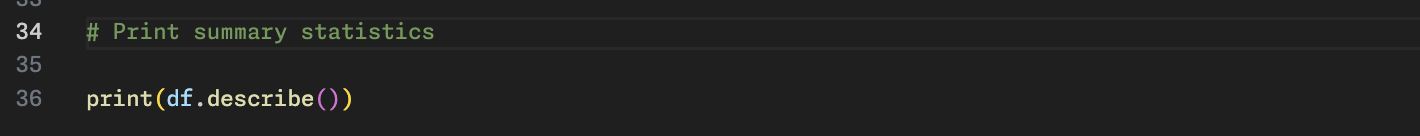
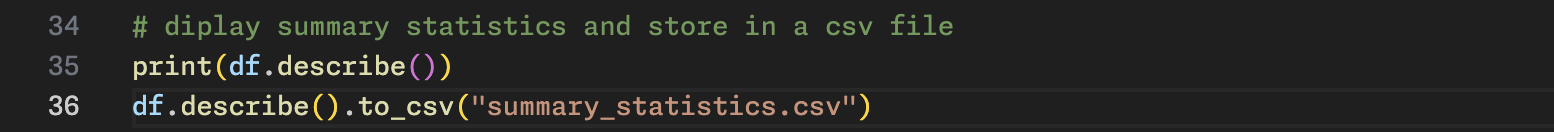
AI/ML task 1 -  Making changes to readme

diff --git a/Readme.md b/Readme.md
@@ -24,12 +24,12 @@
 
 ![step4](images/step4.png)
 
-- Step - 5: Print the summary statistics of the given datset.
+- Step - 5: Print the summary statistics of the given datset and store them in a csv file.
 
 ![step5](images/step5.png)
 
 
-##### Plot diplsaying sample images:
+##### Plot displaying sample images:
 
 ![plot](images/plot1.png)
 
